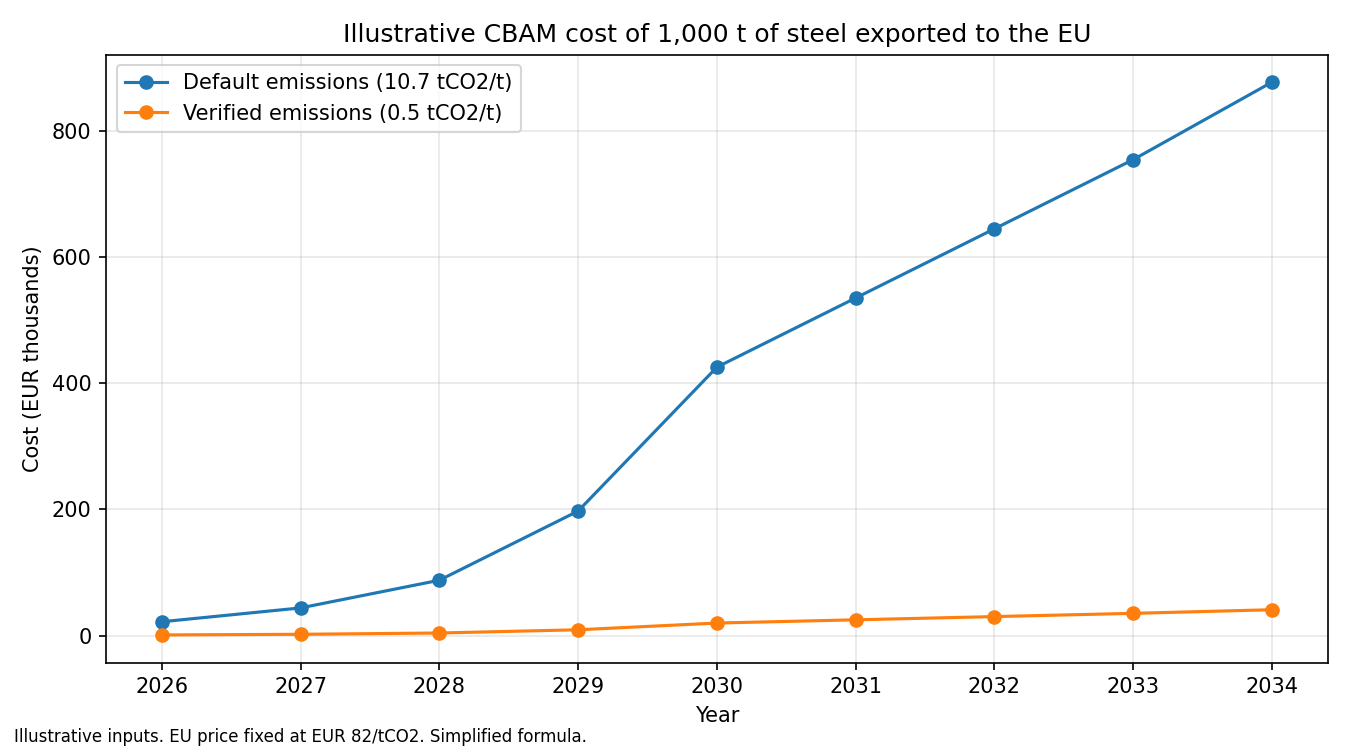
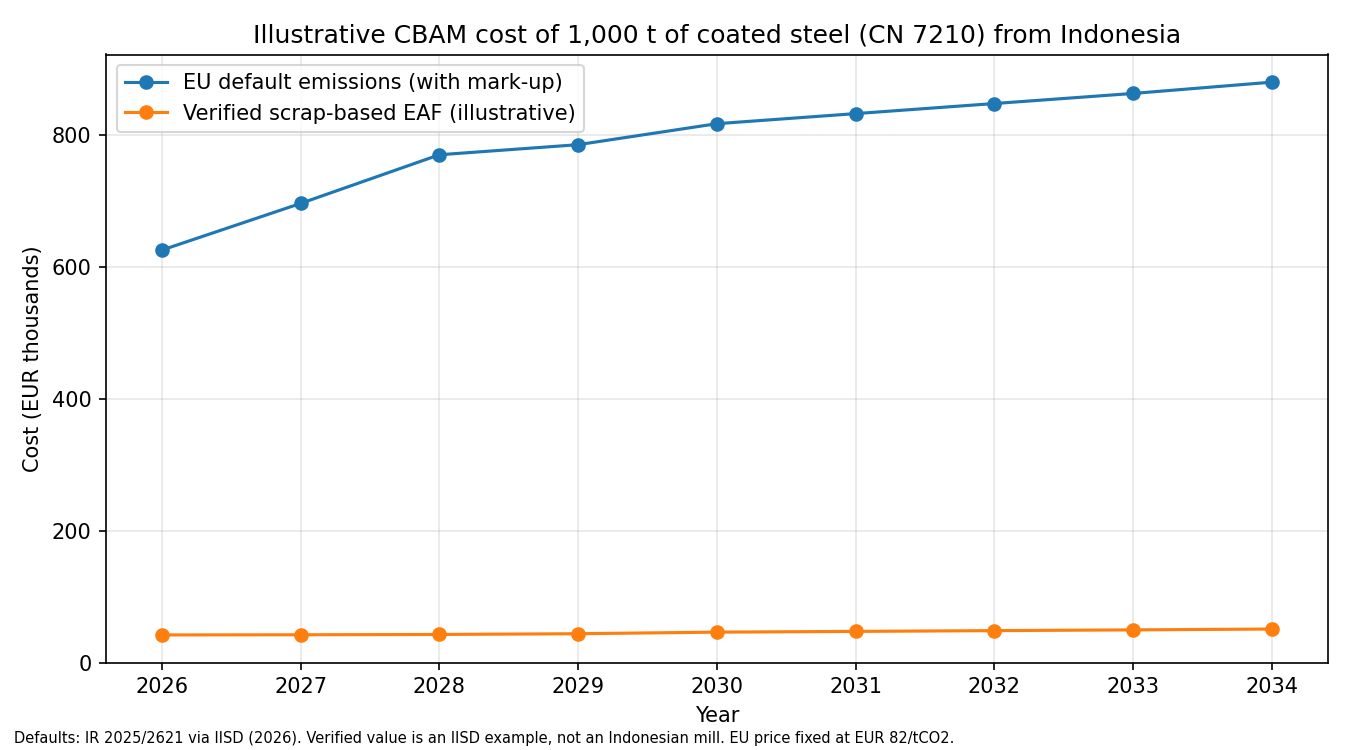
Use official free-allocation formula and sourced Indonesia defaults

diff --git a/app.py b/app.py
@@ -2,50 +2,66 @@ import matplotlib.pyplot as plt
 import pandas as pd
 import streamlit as st
 
-from calculator import cbam_cost_for_year, load_phase_in
+from calculator import default_see, load_parameters, load_schedule, shipment_cost
+
+params = load_parameters()
+years = [int(y) for y in load_schedule().index]
 
 st.set_page_config(page_title="CBAM Indonesia Calculator")
-st.title("CBAM cost calculator for Indonesian exports")
+st.title("CBAM cost calculator: Indonesian coated steel (CN 7210)")
 st.caption(
-    "Illustrative estimates using a simplified formula and placeholder inputs. "
-    "Not legal or financial advice."
+    "Illustrative estimates for research and learning. Not legal or financial advice. "
+    "Method and sources are in the README."
 )
 
 st.sidebar.header("Inputs")
 tonnes = st.sidebar.number_input("Tonnes exported", min_value=1, value=1000, step=100)
-default_emissions = st.sidebar.number_input(
-    "Default emissions (tCO2 per tonne)", min_value=0.0, value=10.7, step=0.1
+route = st.sidebar.selectbox(
+    "Production route behind the verified data", ["Scrap-based EAF", "Blast furnace (BF-BOF)"]
 )
-verified_emissions = st.sidebar.number_input(
-    "Verified emissions (tCO2 per tonne)", min_value=0.0, value=0.5, step=0.1
+verified_see = st.sidebar.number_input(
+    "Verified emissions (tCO2 per tonne)",
+    min_value=0.0,
+    value=params["verified_see_scrap_eaf"],
+    step=0.05,
+    help="The default is an illustrative scrap-EAF figure from an IISD example, not an Indonesian mill. Enter your own verified value.",
 )
 eu_price = st.sidebar.slider("EU carbon price (EUR per tCO2)", 30, 200, 82)
 
-years = sorted(load_phase_in())
+verified_benchmark = (
+    params["benchmark_scrap_eaf"] if route.startswith("Scrap") else params["benchmark_bf_bof"]
+)
+
 rows = []
 for y in years:
-    d = cbam_cost_for_year(tonnes, default_emissions, y, eu_price)
-    v = cbam_cost_for_year(tonnes, verified_emissions, y, eu_price)
+    d = shipment_cost(tonnes, default_see(y), params["benchmark_bf_bof"], y, eu_price)
+    v = shipment_cost(tonnes, verified_see, verified_benchmark, y, eu_price)
     rows.append({"Year": y, "Default (EUR)": d, "Verified (EUR)": v, "Saving (EUR)": d - v})
 df = pd.DataFrame(rows)
 
-last = df.iloc[-1]
-st.metric(
-    f"Saving from verified emissions in {int(last['Year'])}",
-    f"EUR {last['Saving (EUR)']:,.0f}",
+first, last = df.iloc[0], df.iloc[-1]
+c1, c2 = st.columns(2)
+c1.metric(f"Saving in {int(first['Year'])}", f"EUR {first['Saving (EUR)']:,.0f}")
+c2.metric(f"Saving in {int(last['Year'])}", f"EUR {last['Saving (EUR)']:,.0f}")
+st.caption(
+    f"EU default emissions for Indonesia: {default_see(2026):.3f} tCO2/t in 2026, "
+    f"{default_see(2027):.3f} in 2027, {default_see(2028):.3f} from 2028 (mark-up included)."
 )
 
 fig, ax = plt.subplots(figsize=(8, 4.5))
-ax.plot(df["Year"], df["Default (EUR)"] / 1000, marker="o", label="Default emissions")
+ax.plot(df["Year"], df["Default (EUR)"] / 1000, marker="o", label="EU default emissions")
 ax.plot(df["Year"], df["Verified (EUR)"] / 1000, marker="o", label="Verified emissions")
 ax.set_xlabel("Year")
 ax.set_ylabel("Cost (EUR thousands)")
+ax.set_ylim(bottom=0)
 ax.grid(alpha=0.3)
 ax.legend()
 st.pyplot(fig)
 
 st.subheader("Year by year")
 st.dataframe(
-    df.style.format({"Default (EUR)": "{:,.0f}", "Verified (EUR)": "{:,.0f}", "Saving (EUR)": "{:,.0f}"}),
+    df.style.format(
+        {"Default (EUR)": "{:,.0f}", "Verified (EUR)": "{:,.0f}", "Saving (EUR)": "{:,.0f}"}
+    ),
     hide_index=True,
 )

diff --git a/calculator.py b/calculator.py
@@ -5,32 +5,50 @@ import pandas as pd
 DATA_DIR = Path(__file__).parent / "data"
 
 
-def cbam_cost(tonnes, emissions_per_tonne, phase_in_share, eu_price):
-    """Estimate CBAM certificate cost in EUR (simplified).
-
-    tonnes: tonnes of product exported
-    emissions_per_tonne: tCO2 emitted per tonne of product
-    phase_in_share: share of emissions CBAM charges (0.025 in 2026, 1.0 in 2034)
-    eu_price: EU carbon price in EUR per tCO2
-    """
-    return tonnes * emissions_per_tonne * phase_in_share * eu_price
+def load_schedule():
+    """Free allocation share and default mark-up for each year."""
+    return pd.read_csv(DATA_DIR / "schedule.csv").set_index("year")
 
 
-def load_phase_in():
-    """Read the year -> CBAM factor schedule from data/phase_in.csv."""
-    df = pd.read_csv(DATA_DIR / "phase_in.csv")
-    return dict(zip(df["year"], df["cbam_factor"]))
+def load_parameters():
+    """Sourced inputs (default emissions, benchmarks) from data/parameters.csv."""
+    df = pd.read_csv(DATA_DIR / "parameters.csv")
+    return {k: float(v) for k, v in zip(df["parameter"], df["value"])}
 
 
-def phase_in_share(year):
-    schedule = load_phase_in()
-    if year not in schedule:
+def _row(year):
+    schedule = load_schedule()
+    if year not in schedule.index:
         raise ValueError(
-            f"No phase-in value for {year}. Available: {min(schedule)}-{max(schedule)}"
+            f"No schedule for {year}. Available: {schedule.index.min()}-{schedule.index.max()}"
         )
-    return schedule[year]
+    return schedule.loc[year]
 
 
-def cbam_cost_for_year(tonnes, emissions_per_tonne, year, eu_price):
-    """Same as cbam_cost, but looks up the phase-in share for the given year."""
-    return cbam_cost(tonnes, emissions_per_tonne, phase_in_share(year), eu_price)
+def free_allocation_share(year):
+    """Share of free allocation still in place (the regulation's 'CBAM factor')."""
+    return float(_row(year)["free_allocation_share"])
+
+
+def default_see(year):
+    """EU default emissions for Indonesian CN 7210 steel, including the mark-up."""
+    base = load_parameters()["indonesia_default_base"]
+    return base * (1 + float(_row(year)["default_markup"]))
+
+
+def cost_per_tonne(see, benchmark, share, eu_price, cscf=1.0):
+    """CBAM cost in EUR per tonne of product.
+
+    see: embedded emissions (tCO2 per tonne of product)
+    benchmark: EU benchmark for the product route (tCO2 per tonne)
+    share: free allocation share left that year (0.975 in 2026, 0 in 2034)
+    eu_price: CBAM certificate price (EUR per tCO2)
+    cscf: cross-sectoral correction factor (1.0 = no reduction)
+    """
+    free_allocation = benchmark * share * cscf
+    return max(see - free_allocation, 0.0) * eu_price
+
+
+def shipment_cost(tonnes, see, benchmark, year, eu_price):
+    """Total CBAM cost in EUR for a shipment in a given year."""
+    return tonnes * cost_per_tonne(see, benchmark, free_allocation_share(year), eu_price)

diff --git a/test_calculator.py b/test_calculator.py
@@ -1,33 +1,56 @@
 import pytest
 
-from calculator import cbam_cost, cbam_cost_for_year, load_phase_in, phase_in_share
+from calculator import (
+    cost_per_tonne,
+    default_see,
+    free_allocation_share,
+    load_parameters,
+    load_schedule,
+    shipment_cost,
+)
 
 
-def test_full_phase_in_default_emissions():
-    # 1,000 t x 10.7 tCO2/t x 100% x EUR 82 = EUR 877,400
-    assert cbam_cost(1000, 10.7, 1.0, 82) == pytest.approx(877_400)
+def test_default_see_includes_markup():
+    assert default_see(2026) == pytest.approx(9.075)
+    assert default_see(2027) == pytest.approx(9.9)
+    assert default_see(2028) == pytest.approx(10.725)
+    assert default_see(2034) == pytest.approx(10.725)
 
 
-def test_2026_phase_in():
-    assert cbam_cost(1000, 10.7, 0.025, 82) == pytest.approx(21_935)
+def test_reproduces_iisd_default_example():
+    # IISD 2026, section 4.3: about EUR 86,890 per 1,000 t (Vietnam, CN 7210)
+    assert cost_per_tonne(2.607, 1.491, 0.975, 75.36) == pytest.approx(86.89, rel=0.001)
 
 
-def test_schedule_endpoints():
-    assert phase_in_share(2026) == pytest.approx(0.025)
-    assert phase_in_share(2030) == pytest.approx(0.485)
-    assert phase_in_share(2034) == pytest.approx(1.0)
+def test_reproduces_iisd_scrap_eaf_example():
+    # IISD 2026, Table 2: about EUR 39 per tonne
+    assert cost_per_tonne(0.62, 0.1118, 0.975, 75.36) == pytest.approx(38.5, rel=0.01)
 
 
-def test_schedule_never_decreases():
-    values = [v for _, v in sorted(load_phase_in().items())]
-    assert values == sorted(values)
+def test_indonesia_default_2026_matches_iisd():
+    # IISD reports about EUR 574 per tonne at the Q2 2026 price of EUR 75.28
+    p = load_parameters()
+    cost = cost_per_tonne(
+        default_see(2026), p["benchmark_bf_bof"], free_allocation_share(2026), 75.28
+    )
+    assert cost == pytest.approx(574, rel=0.005)
 
 
-def test_cost_for_year_2030():
-    # 1,000 x 10.7 x 0.485 x 82 = 425,539
-    assert cbam_cost_for_year(1000, 10.7, 2030, 82) == pytest.approx(425_539)
+def test_no_free_allocation_in_2034():
+    p = load_parameters()
+    cost = shipment_cost(1000, default_see(2034), p["benchmark_bf_bof"], 2034, 100)
+    assert cost == pytest.approx(1_072_500)
+
+
+def test_cost_never_negative():
+    assert cost_per_tonne(0.05, 1.0, 0.975, 80) == 0
+
+
+def test_free_allocation_never_increases():
+    values = list(load_schedule().sort_index()["free_allocation_share"])
+    assert values == sorted(values, reverse=True)
 
 
 def test_year_outside_schedule_raises():
     with pytest.raises(ValueError):
-        phase_in_share(2025)
+        free_allocation_share(2025)

diff --git a/make_chart.py b/make_chart.py
@@ -1,26 +1,35 @@
 import matplotlib.pyplot as plt
 
-from calculator import cbam_cost_for_year, load_phase_in
+from calculator import default_see, load_parameters, load_schedule, shipment_cost
 
-# Illustrative inputs, to be replaced with sourced values later
 TONNES = 1000
-EU_PRICE = 82              # EUR per tCO2
-DEFAULT_EMISSIONS = 10.7   # tCO2 per tonne of steel (EU default, illustrative)
-VERIFIED_EMISSIONS = 0.5   # tCO2 per tonne of steel (verified, illustrative)
+EU_PRICE = 82  # EUR per tCO2, assumed
 
-years = sorted(load_phase_in())
-default_costs = [cbam_cost_for_year(TONNES, DEFAULT_EMISSIONS, y, EU_PRICE) / 1000 for y in years]
-verified_costs = [cbam_cost_for_year(TONNES, VERIFIED_EMISSIONS, y, EU_PRICE) / 1000 for y in years]
+p = load_parameters()
+years = [int(y) for y in load_schedule().index]
+default_costs = [
+    shipment_cost(TONNES, default_see(y), p["benchmark_bf_bof"], y, EU_PRICE) / 1000
+    for y in years
+]
+verified_costs = [
+    shipment_cost(TONNES, p["verified_see_scrap_eaf"], p["benchmark_scrap_eaf"], y, EU_PRICE) / 1000
+    for y in years
+]
 
 plt.figure(figsize=(9, 5))
-plt.plot(years, default_costs, marker="o", label="Default emissions (10.7 tCO2/t)")
-plt.plot(years, verified_costs, marker="o", label="Verified emissions (0.5 tCO2/t)")
-plt.title("Illustrative CBAM cost of 1,000 t of steel exported to the EU")
+plt.plot(years, default_costs, marker="o", label="EU default emissions (with mark-up)")
+plt.plot(years, verified_costs, marker="o", label="Verified scrap-based EAF (illustrative)")
+plt.title("Illustrative CBAM cost of 1,000 t of coated steel (CN 7210) from Indonesia")
 plt.xlabel("Year")
 plt.ylabel("Cost (EUR thousands)")
+plt.ylim(bottom=0)
 plt.legend()
 plt.grid(alpha=0.3)
-plt.figtext(0.01, 0.01, "Illustrative inputs. EU price fixed at EUR 82/tCO2. Simplified formula.", fontsize=8)
+plt.figtext(
+    0.01, 0.01,
+    "Defaults: IR 2025/2621 via IISD (2026). Verified value is an IISD example, not an Indonesian mill. EU price fixed at EUR 82/tCO2.",
+    fontsize=7,
+)
 plt.tight_layout()
 plt.savefig("charts/cost_by_year.png", dpi=150)
 print("Saved charts/cost_by_year.png")

diff --git a/README.md b/README.md
@@ -4,3 +4,17 @@
 ![Illustrative CBAM cost by year](charts/cost_by_year.png)
 
 Run the app locally with `streamlit run app.py`.
+
+## Method and sources
+
+Cost per tonne = (embedded emissions - benchmark x free allocation share left) x certificate price.
+
+- Free allocation share: 97.5% in 2026 falling to 0% in 2034 (Directive 2003/87/EC Art. 10a(1a)).
+- Default emissions: Indonesia CN 7210 base value of 8.25 tCO2/t plus a 10% mark-up in 2026, 20% in 2027, 30% from 2028 (IR (EU) 2025/2621).
+- Benchmarks: IR (EU) 2025/2620 Annex, as used in IISD (2026).
+- Only direct emissions are priced for steel.
+- Validation: the calculator reproduces IISD's figure of about EUR 574/t for an Indonesian default in 2026 (see tests).
+
+Limitations: one product (CN 7210), cross-sectoral correction factor assumed 1.0, the verified-emissions figure is illustrative, and the carbon-price deduction for Indonesia's ETS is not modelled yet.
+
+Source: IISD (2026), Navigating the EU Carbon Border Adjustment Mechanism: An exporter's technical guide.
